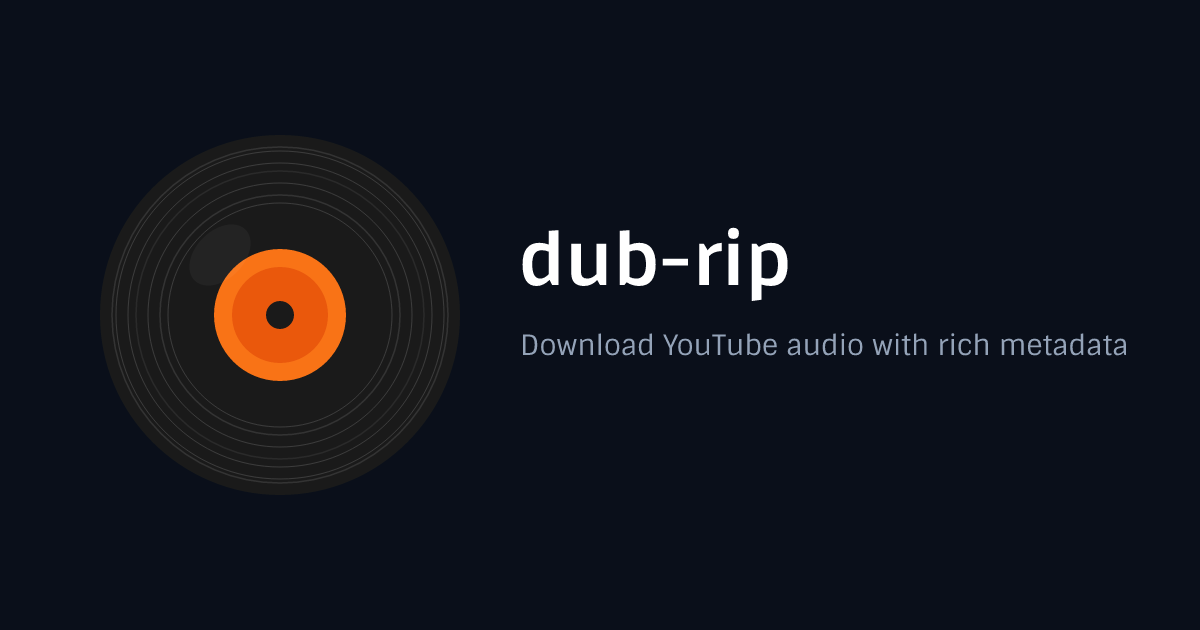
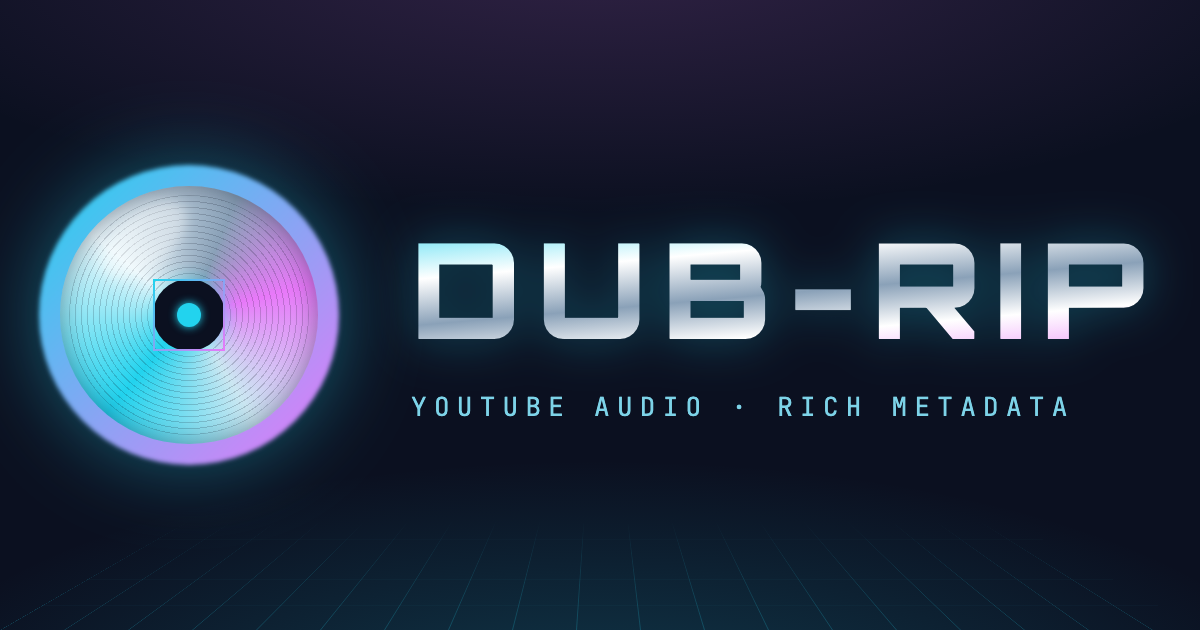
design(retro-future): Y2K chrome visual direction
Restyle dub-rip with a restrained Y2K chrome / vaporwave look: deep
space background, neon cyan + magenta accents, iridescent chrome
wordmark (Orbitron), perspective grid horizon, CRT scanline overlay,
and dark-glass inputs/buttons with neon focus glow. Defines both light
(pale chrome) and dark token sets; dark-mode toggle untouched.

Markup/styles only — +page.svelte <script> logic unchanged.

Brand assets (chrome disc, cyan/magenta rim, grid horizon) regenerated
via scripts/generate-brand-assets.mjs; hand-authored vector favicon.svg.

diff --git a/src/app.css b/src/app.css
@@ -4,48 +4,58 @@
 
 @layer base {
 	:root {
-		--background: 0 0% 100%;
-		--foreground: 222.2 84% 4.9%;
-		--card: 0 0% 100%;
-		--card-foreground: 222.2 84% 4.9%;
-		--popover: 0 0% 100%;
-		--popover-foreground: 222.2 84% 4.9%;
-		--primary: 222.2 47.4% 11.2%;
+		--background: 200 30% 95%;
+		--foreground: 222 47% 14%;
+		--card: 200 36% 98%;
+		--card-foreground: 222 47% 14%;
+		--popover: 200 36% 98%;
+		--popover-foreground: 222 47% 14%;
+		--primary: 189 84% 42%;
 		--primary-foreground: 210 40% 98%;
-		--secondary: 210 40% 96.1%;
-		--secondary-foreground: 222.2 47.4% 11.2%;
-		--muted: 210 40% 96.1%;
-		--muted-foreground: 215.4 16.3% 46.9%;
-		--accent: 210 40% 96.1%;
-		--accent-foreground: 222.2 47.4% 11.2%;
-		--destructive: 0 84.2% 60.2%;
+		--secondary: 200 30% 90%;
+		--secondary-foreground: 222 47% 18%;
+		--muted: 200 28% 90%;
+		--muted-foreground: 215 22% 42%;
+		--accent: 292 82% 70%;
+		--accent-foreground: 222 47% 14%;
+		--destructive: 0 84% 55%;
 		--destructive-foreground: 210 40% 98%;
-		--border: 214.3 31.8% 91.4%;
-		--input: 214.3 31.8% 91.4%;
-		--ring: 222.2 84% 4.9%;
+		--border: 200 24% 82%;
+		--input: 200 24% 84%;
+		--ring: 189 90% 48%;
 		--radius: 0.5rem;
+
+		--chrome-cyan: 189 94% 55%;
+		--chrome-magenta: 292 88% 74%;
+		--grid-line: 200 30% 70%;
+		--space-deep: 200 30% 92%;
 	}
 
 	.dark {
-		--background: 222.2 84% 4.9%;
-		--foreground: 210 40% 98%;
-		--card: 222.2 84% 4.9%;
-		--card-foreground: 210 40% 98%;
-		--popover: 222.2 84% 4.9%;
-		--popover-foreground: 210 40% 98%;
-		--primary: 210 40% 98%;
-		--primary-foreground: 222.2 47.4% 11.2%;
-		--secondary: 217.2 32.6% 17.5%;
-		--secondary-foreground: 210 40% 98%;
-		--muted: 217.2 32.6% 17.5%;
-		--muted-foreground: 215 20.2% 65.1%;
-		--accent: 217.2 32.6% 17.5%;
-		--accent-foreground: 210 40% 98%;
-		--destructive: 0 62.8% 30.6%;
-		--destructive-foreground: 210 40% 98%;
-		--border: 217.2 32.6% 17.5%;
-		--input: 217.2 32.6% 17.5%;
-		--ring: 212.7 26.8% 83.9%;
+		--background: 224 56% 9%;
+		--foreground: 195 50% 92%;
+		--card: 223 48% 13%;
+		--card-foreground: 195 50% 92%;
+		--popover: 223 48% 13%;
+		--popover-foreground: 195 50% 92%;
+		--primary: 189 90% 53%;
+		--primary-foreground: 224 56% 9%;
+		--secondary: 222 38% 20%;
+		--secondary-foreground: 195 50% 92%;
+		--muted: 222 36% 18%;
+		--muted-foreground: 200 26% 64%;
+		--accent: 292 88% 74%;
+		--accent-foreground: 224 56% 9%;
+		--destructive: 0 72% 48%;
+		--destructive-foreground: 195 50% 96%;
+		--border: 200 60% 30%;
+		--input: 222 38% 22%;
+		--ring: 189 94% 60%;
+
+		--chrome-cyan: 189 94% 60%;
+		--chrome-magenta: 292 92% 78%;
+		--grid-line: 195 80% 42%;
+		--space-deep: 224 60% 6%;
 	}
 }
 
@@ -53,7 +63,117 @@
 	* {
 		@apply border-border;
 	}
+
 	body {
 		@apply bg-background text-foreground;
+		position: relative;
+		background-image:
+			radial-gradient(
+				ellipse 120% 80% at 50% -10%,
+				hsl(var(--chrome-magenta) / 0.14),
+				transparent 55%
+			),
+			radial-gradient(
+				ellipse 100% 70% at 50% 115%,
+				hsl(var(--chrome-cyan) / 0.16),
+				transparent 60%
+			);
+		background-attachment: fixed;
+	}
+
+	body::before {
+		content: "";
+		position: fixed;
+		inset: 0;
+		z-index: 0;
+		pointer-events: none;
+		background-image:
+			repeating-linear-gradient(
+				to right,
+				hsl(var(--grid-line) / 0.18) 0,
+				hsl(var(--grid-line) / 0.18) 1px,
+				transparent 1px,
+				transparent 56px
+			),
+			repeating-linear-gradient(
+				to bottom,
+				hsl(var(--grid-line) / 0.14) 0,
+				hsl(var(--grid-line) / 0.14) 1px,
+				transparent 1px,
+				transparent 56px
+			);
+		mask-image: linear-gradient(to bottom, transparent 55%, black 100%);
+		-webkit-mask-image: linear-gradient(to bottom, transparent 55%, black 100%);
+		transform: perspective(420px) rotateX(62deg);
+		transform-origin: bottom center;
+		opacity: 0.7;
+	}
+
+	body::after {
+		content: "";
+		position: fixed;
+		inset: 0;
+		z-index: 1;
+		pointer-events: none;
+		background-image: repeating-linear-gradient(
+			to bottom,
+			transparent 0,
+			transparent 2px,
+			hsl(var(--foreground) / 0.04) 2px,
+			hsl(var(--foreground) / 0.04) 3px
+		);
+		opacity: 0.5;
+	}
+
+	.dark body::after {
+		background-image: repeating-linear-gradient(
+			to bottom,
+			transparent 0,
+			transparent 2px,
+			hsl(195 100% 80% / 0.035) 2px,
+			hsl(195 100% 80% / 0.035) 3px
+		);
+	}
+}
+
+@layer components {
+	.chrome-text {
+		background-image: linear-gradient(
+			175deg,
+			hsl(189 90% 38%) 0%,
+			hsl(200 60% 55%) 26%,
+			hsl(var(--foreground)) 50%,
+			hsl(292 70% 58%) 74%,
+			hsl(292 88% 50%) 100%
+		);
+		-webkit-background-clip: text;
+		background-clip: text;
+		color: transparent;
+		-webkit-text-fill-color: transparent;
+	}
+
+	.dark .chrome-text {
+		background-image: linear-gradient(
+			175deg,
+			hsl(var(--chrome-cyan)) 0%,
+			hsl(0 0% 100%) 30%,
+			hsl(200 40% 78%) 50%,
+			hsl(0 0% 100%) 70%,
+			hsl(var(--chrome-magenta)) 100%
+		);
+	}
+
+	.neon-glow {
+		box-shadow:
+			0 0 0 1px hsl(var(--chrome-cyan) / 0.35),
+			0 0 18px -2px hsl(var(--chrome-cyan) / 0.35),
+			0 0 36px -8px hsl(var(--chrome-magenta) / 0.25);
+	}
+
+	.glass-panel {
+		background-color: hsl(var(--card) / 0.7);
+		backdrop-filter: blur(12px) saturate(140%);
+		-webkit-backdrop-filter: blur(12px) saturate(140%);
+		border-color: hsl(var(--chrome-cyan) / 0.3);
 	}
 }

diff --git a/src/routes/+page.svelte b/src/routes/+page.svelte
@@ -227,17 +227,17 @@ function handleDownload() {
 }
 </script>
 
-<div class="flex min-h-screen items-center justify-center p-4">
+<div class="relative z-10 flex min-h-screen items-center justify-center p-4">
 	<div class="w-full max-w-md space-y-6">
 		<!-- Header -->
-		<div class="flex flex-col items-center space-y-2 text-center">
+		<div class="flex flex-col items-center space-y-3 text-center">
 			<AsciiVinyl />
-			<h1 class="font-mono text-4xl font-bold tracking-tight">dub-rip</h1>
-			<p class="text-sm text-muted-foreground">Download YouTube audio with rich metadata</p>
+			<h1 class="chrome-text font-display text-4xl font-black uppercase tracking-[0.35em] pl-[0.35em] drop-shadow-[0_0_18px_hsl(var(--chrome-cyan)/0.35)]">dub-rip</h1>
+			<p class="font-mono text-xs uppercase tracking-[0.2em] text-muted-foreground">Download YouTube audio with rich metadata</p>
 		</div>
 
 		<!-- Main Card -->
-		<Card.Root class="p-6">
+		<Card.Root class="glass-panel neon-glow p-6">
 			<Card.Content class="space-y-4 p-0">
 				<!-- Input -->
 				<div class="space-y-2">
@@ -247,7 +247,7 @@ function handleDownload() {
 						disabled={loading}
 						autofocus
 						onkeydown={(e) => e.key === "Enter" && !e.isComposing && isValidUrl && !loading && handleDownload()}
-						class="h-11"
+						class="h-11 border-chrome-cyan/30 bg-background/40 font-mono tracking-wide placeholder:text-muted-foreground/70 focus-visible:border-chrome-cyan focus-visible:shadow-[0_0_18px_-2px_hsl(var(--chrome-cyan)/0.6)]"
 					/>
 					<DownloadButton
 						loading={loading}
@@ -268,8 +268,8 @@ function handleDownload() {
 
 				<!-- Error -->
 				{#if error}
-					<div class="rounded-md border border-destructive/20 bg-destructive/10 p-3">
-						<p class="text-sm text-destructive">{error}</p>
+					<div class="rounded-md border border-destructive/40 bg-destructive/10 p-3 shadow-[0_0_16px_-6px_hsl(var(--destructive)/0.7)]">
+						<p class="font-mono text-sm text-destructive">{error}</p>
 					</div>
 				{/if}
 
@@ -280,11 +280,11 @@ function handleDownload() {
 							<p class="truncate text-sm font-medium">{videoTitle}</p>
 						{/if}
 
-						<p class="text-xs text-muted-foreground">{status}</p>
+						<p class="font-mono text-xs uppercase tracking-[0.15em] text-chrome-cyan">{status}</p>
 
 						<div class="space-y-2">
-							<Progress value={progress} class="h-2" />
-							<div class="flex justify-between text-xs text-muted-foreground">
+							<Progress value={progress} class="h-2 bg-chrome-cyan/15 [&_[data-slot=progress-indicator]]:bg-gradient-to-r [&_[data-slot=progress-indicator]]:from-chrome-cyan [&_[data-slot=progress-indicator]]:to-chrome-magenta [&_[data-slot=progress-indicator]]:shadow-[0_0_12px_hsl(var(--chrome-cyan)/0.7)]" />
+							<div class="flex justify-between font-mono text-xs text-muted-foreground">
 								<span>{progress}%</span>
 								<div class="flex gap-2">
 									{#if speed}<span>{speed}</span>{/if}

diff --git a/src/app.html b/src/app.html
@@ -17,13 +17,15 @@
 		<meta charset="utf-8" />
 		<link rel="preconnect" href="https://fonts.googleapis.com" />
 		<link rel="preconnect" href="https://fonts.gstatic.com" crossorigin />
-		<link href="https://fonts.googleapis.com/css2?family=JetBrains+Mono:wght@400;700&display=swap" rel="stylesheet" />
+		<link href="https://fonts.googleapis.com/css2?family=JetBrains+Mono:wght@400;700&family=Orbitron:wght@500;700;900&display=swap" rel="stylesheet" />
 		<link rel="apple-touch-icon" sizes="180x180" href="/apple-touch-icon.png" />
 		<link rel="icon" type="image/svg+xml" href="/favicon.svg" />
 		<link rel="icon" type="image/png" sizes="32x32" href="/favicon-32x32.png" />
 		<link rel="icon" type="image/png" sizes="16x16" href="/favicon-16x16.png" />
 		<link rel="manifest" href="/site.webmanifest" />
 		<meta name="viewport" content="width=device-width, initial-scale=1" />
+		<meta name="theme-color" content="#0b1020" media="(prefers-color-scheme: dark)" />
+		<meta name="theme-color" content="#e6eef2" media="(prefers-color-scheme: light)" />
 		<meta name="description" content="Download YouTube audio with rich metadata" />
 		%sveltekit.head%
 	</head>

diff --git a/src/lib/components/AsciiVinyl.svelte b/src/lib/components/AsciiVinyl.svelte
@@ -88,6 +88,6 @@ function handleClick() {
 	aria-label={isPaused ? "Play animation" : "Pause animation"}
 >
 	<pre
-		class="font-mono text-[0.53rem] leading-[0.45rem] text-muted-foreground transition-all duration-300 select-none sm:text-[0.64rem] sm:leading-[0.54rem] {isHovering ? 'text-primary scale-105' : ''} {isPaused ? 'opacity-60' : ''}"
+		class="font-mono text-[0.53rem] leading-[0.45rem] text-chrome-cyan/70 drop-shadow-[0_0_6px_hsl(var(--chrome-cyan)/0.45)] transition-all duration-300 select-none sm:text-[0.64rem] sm:leading-[0.54rem] {isHovering ? 'text-chrome-magenta scale-105 drop-shadow-[0_0_10px_hsl(var(--chrome-magenta)/0.6)]' : ''} {isPaused ? 'opacity-60' : ''}"
 	>{vinylLines.join("\n")}</pre>
 </button>

diff --git a/src/lib/components/PreviewSkeleton.svelte b/src/lib/components/PreviewSkeleton.svelte
@@ -1,7 +1,7 @@
-<div class="flex items-center gap-3 p-3 rounded-md border bg-muted/50 animate-pulse" data-testid="preview-skeleton">
-	<div class="w-12 h-12 rounded bg-muted flex-shrink-0"></div>
+<div class="flex items-center gap-3 p-3 rounded-md border border-chrome-cyan/25 bg-background/40 animate-pulse" data-testid="preview-skeleton">
+	<div class="w-12 h-12 rounded bg-chrome-cyan/15 flex-shrink-0"></div>
 	<div class="flex-1 min-w-0 space-y-2">
-		<div class="h-4 bg-muted rounded w-3/4"></div>
-		<div class="h-3 bg-muted rounded w-1/2"></div>
+		<div class="h-4 bg-chrome-cyan/15 rounded w-3/4"></div>
+		<div class="h-3 bg-chrome-magenta/15 rounded w-1/2"></div>
 	</div>
 </div>

diff --git a/src/lib/components/VideoPreview.svelte b/src/lib/components/VideoPreview.svelte
@@ -9,11 +9,11 @@ interface Props {
 let { preview, formatDuration }: Props = $props();
 </script>
 
-<div class="flex items-center gap-3 p-3 rounded-md border bg-muted/50">
+<div class="flex items-center gap-3 p-3 rounded-md border border-chrome-cyan/25 bg-background/40 shadow-[0_0_16px_-8px_hsl(var(--chrome-cyan)/0.6)]">
 	<img
 		src={preview.thumbnail}
 		alt={preview.title}
-		class="w-12 h-12 rounded object-cover flex-shrink-0"
+		class="w-12 h-12 rounded object-cover flex-shrink-0 ring-1 ring-chrome-magenta/30"
 	/>
 	<div class="flex-1 min-w-0 space-y-0.5">
 		<p class="text-sm font-medium truncate">{preview.title || preview.videoTitle}</p>

diff --git a/src/lib/components/DownloadButton.svelte b/src/lib/components/DownloadButton.svelte
@@ -11,7 +11,11 @@ interface Props {
 let { loading, disabled, onClick }: Props = $props();
 </script>
 
-<Button onclick={onClick} disabled={disabled} class="w-full h-11">
+<Button
+	onclick={onClick}
+	disabled={disabled}
+	class="h-11 w-full border border-chrome-cyan/40 bg-gradient-to-r from-chrome-cyan to-chrome-magenta font-display text-sm font-bold uppercase tracking-[0.2em] text-background shadow-[0_0_20px_-4px_hsl(var(--chrome-cyan)/0.7)] transition-all hover:brightness-110 hover:shadow-[0_0_28px_-2px_hsl(var(--chrome-magenta)/0.7)]"
+>
 	{#if loading}
 		<Loader2 class="mr-2 h-4 w-4 animate-spin" />
 		Downloading

diff --git a/tailwind.config.js b/tailwind.config.js
@@ -48,6 +48,8 @@ export default {
 					DEFAULT: "hsl(var(--card) / <alpha-value>)",
 					foreground: "hsl(var(--card-foreground) / <alpha-value>)",
 				},
+				"chrome-cyan": "hsl(var(--chrome-cyan) / <alpha-value>)",
+				"chrome-magenta": "hsl(var(--chrome-magenta) / <alpha-value>)",
 			},
 			borderRadius: {
 				lg: "var(--radius)",
@@ -57,6 +59,7 @@ export default {
 			fontFamily: {
 				sans: [...fontFamily.sans],
 				mono: ['"JetBrains Mono"', ...fontFamily.mono],
+				display: ['"Orbitron"', ...fontFamily.sans],
 			},
 		},
 	},
